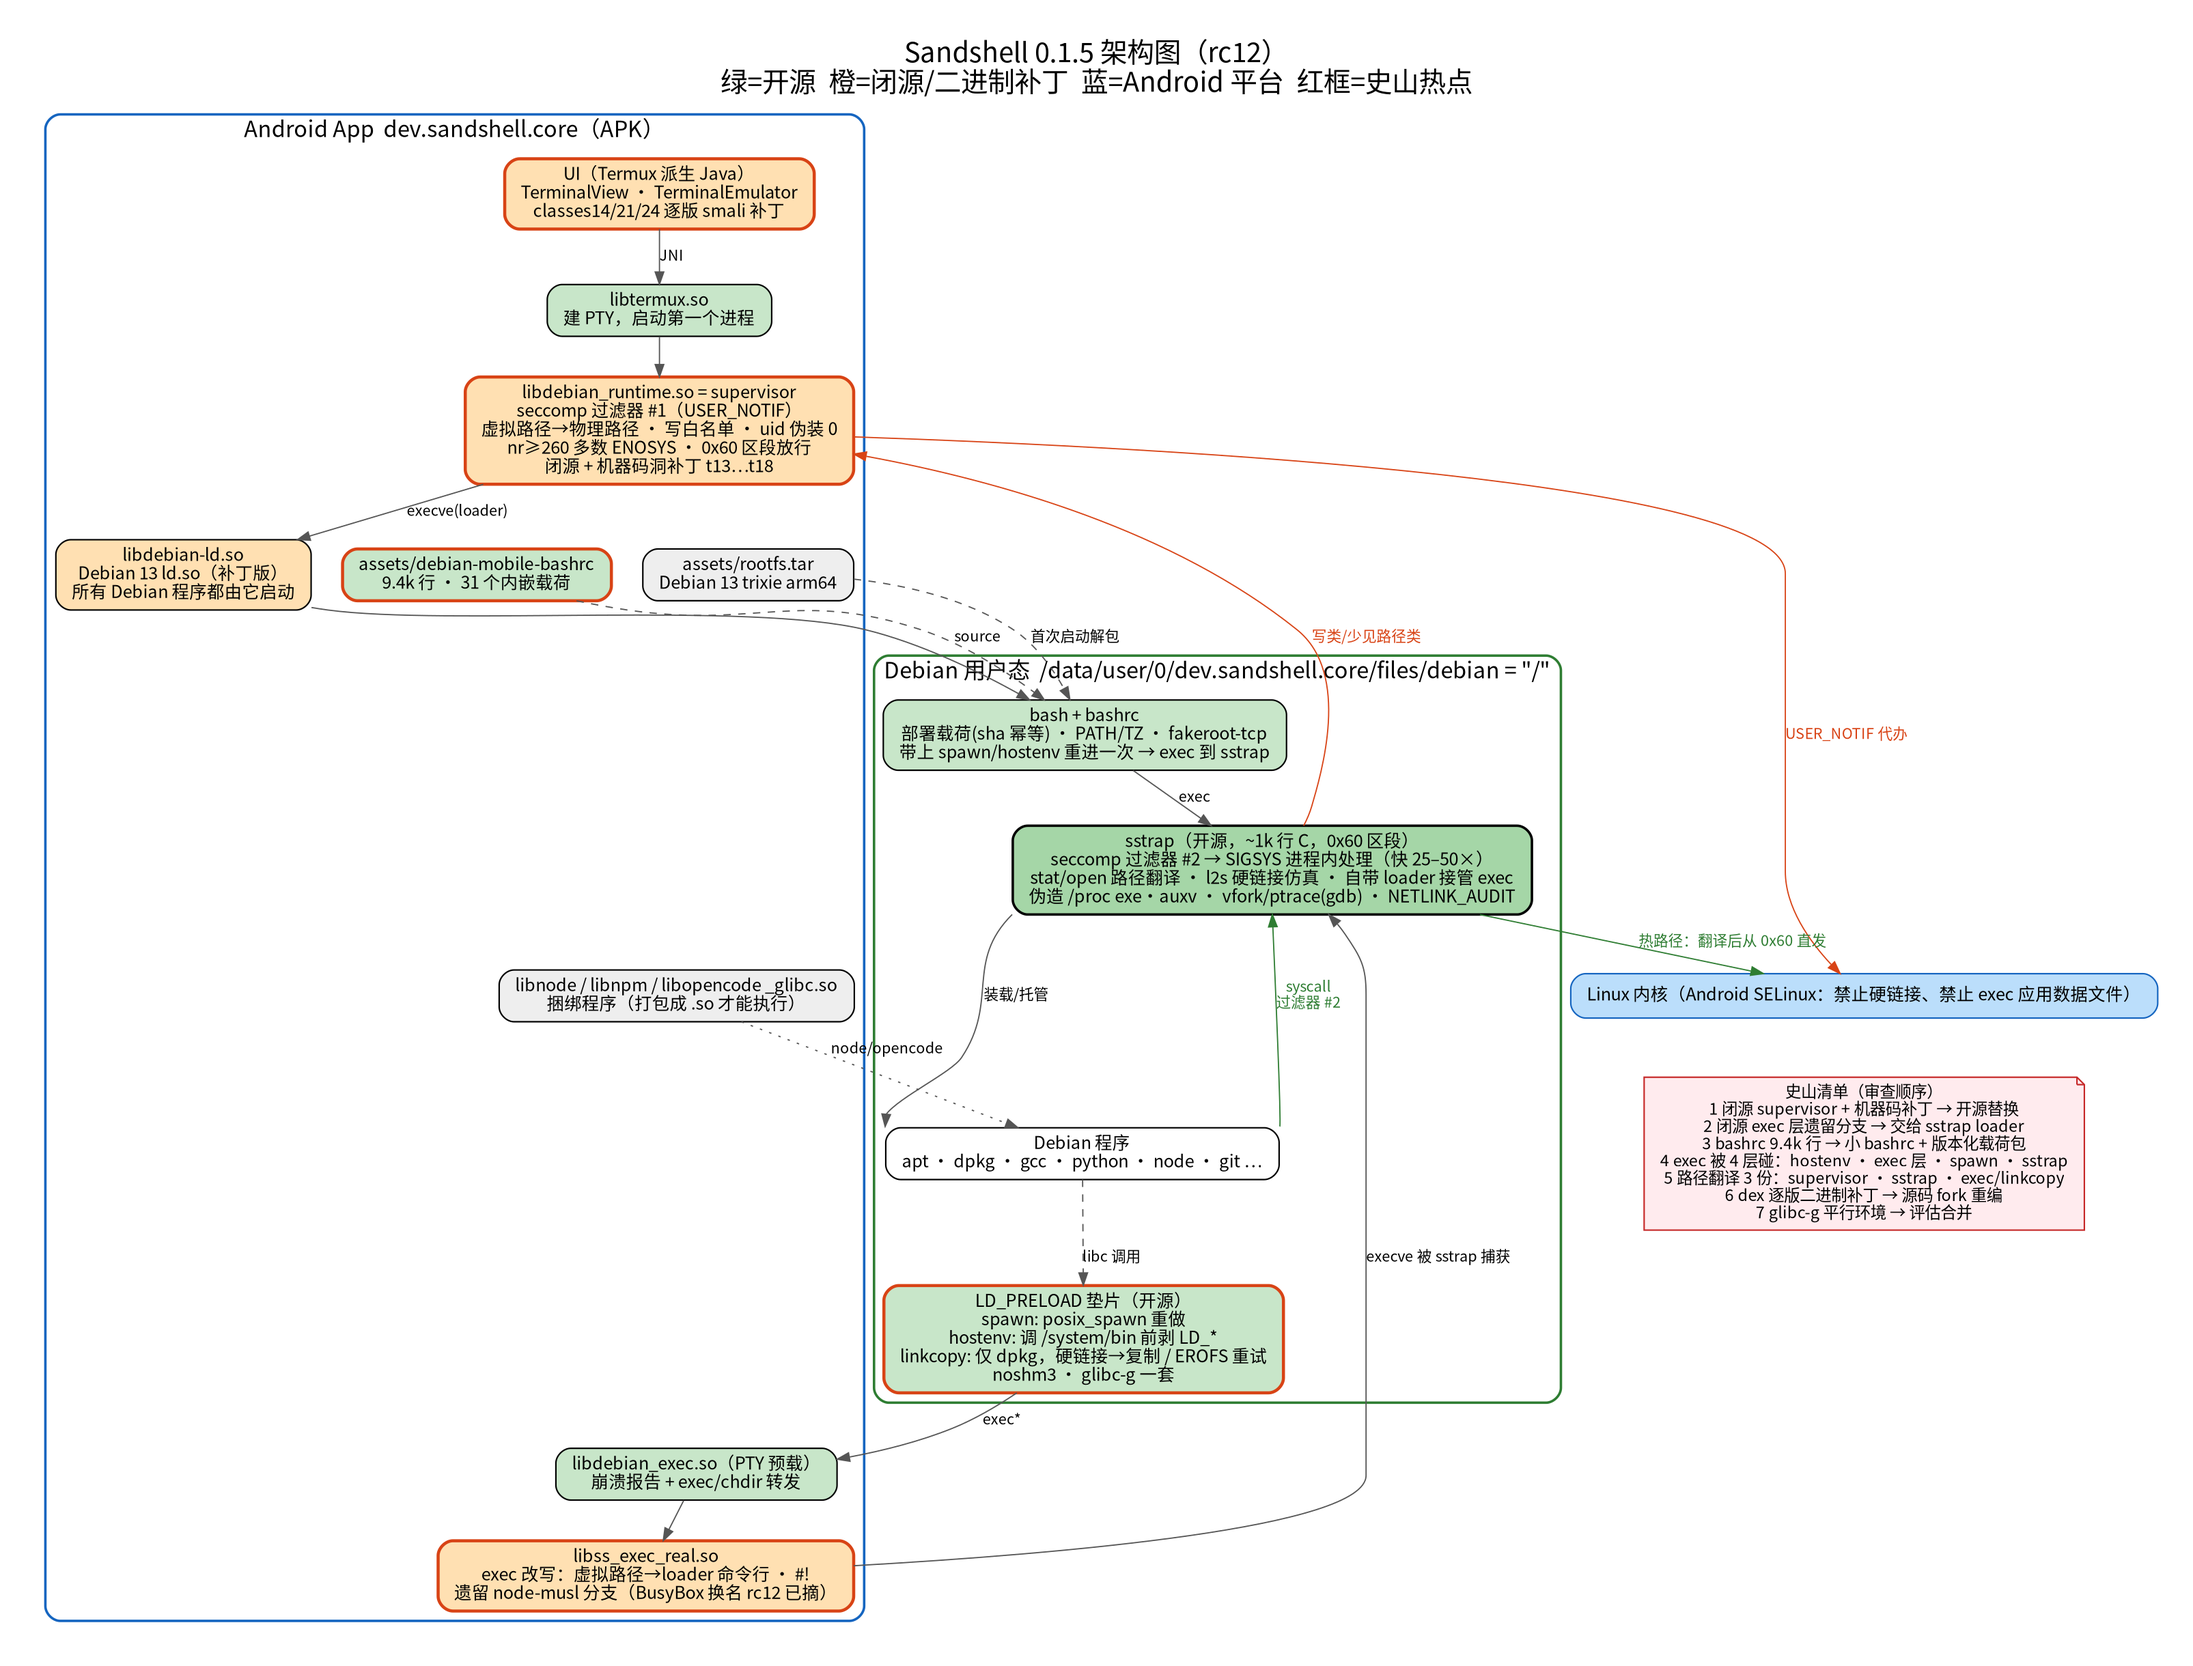
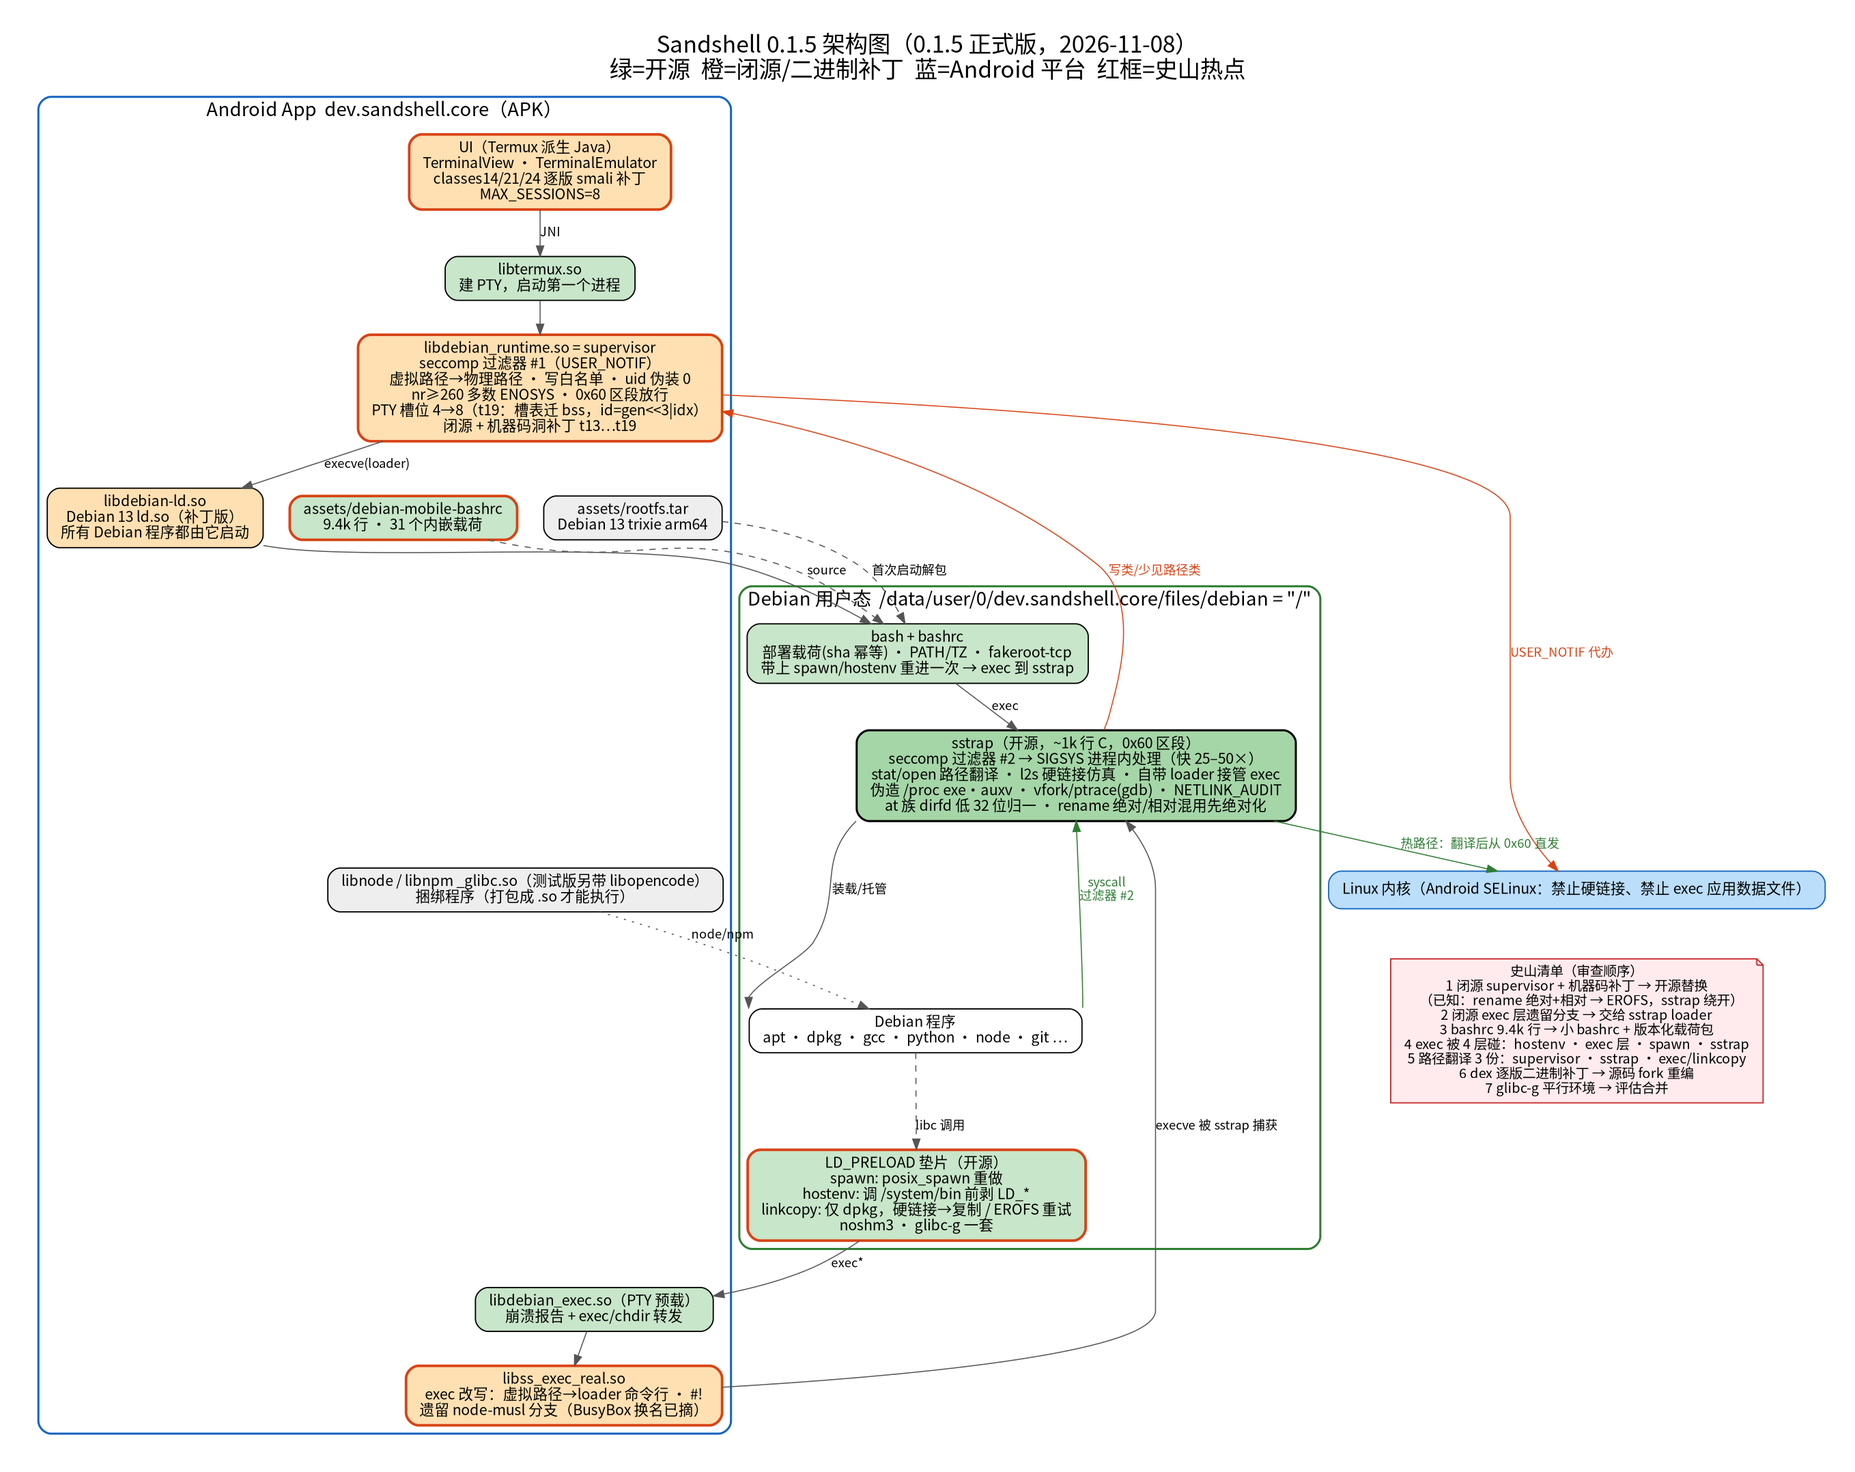
docs: architecture map for 0.1.5 release (PTY slots t19, sstrap dirfd/rename fixes)

diff --git a/docs/architecture-0.1.5.md b/docs/architecture-0.1.5.md
@@ -1,4 +1,4 @@
-# Sandshell 0.1.5 架构总览（rc12，2026-11-08）
+# Sandshell 0.1.5 架构总览（0.1.5 正式版，2026-11-08）
 
 目的：给代码审查用的一张"地图"。标出每层是什么、谁写的（开源/闭源/二进制补丁）、哪里重复、哪里是历史包袱。
 
@@ -13,7 +13,7 @@
 │        │ JNI                                                                                                  │
 │  [libtermux.so]  建 PTY，fork+exec 第一个进程                                                                 │
 │        │                                                                                                      │
-│  [libdebian_runtime.so  = supervisor，闭源 + 机器码"洞"补丁 t13…t18]                                          │
+│  [libdebian_runtime.so  = supervisor，闭源 + 机器码"洞"补丁 t13…t19]                                          │
 │     · 装 seccomp 过滤器 #1：路径类 syscall → USER_NOTIF（由 supervisor 线程代办，虚拟路径→物理路径，写策略白名单）  │
 │       get*uid → 0；nr≥260 大多 ENOSYS；IP 落在 0x60 区段（sstrap）→ 放行                                       │
 │     · ADDFD 回填文件描述符；fakeroot 注册表；symlink 只放行固定形状                                              │
@@ -89,7 +89,7 @@ exec 一共被 4 层碰过：hostenv、libdebian_exec/libss_exec_real、spawn、
 
 ## 5. 史山清单（审查优先级）
 
-1. **闭源 supervisor + 机器码洞补丁**（t13f 分类器、t16 O_PATH、t17 CLOEXEC、t18 BPF）。每个补丁都只能反汇编验证，模拟器跑不了它。长期：用开源实现替换（sstrap 已承担热路径，可逐步把 USER_NOTIF 部分也搬过来）。
+1. **闭源 supervisor + 机器码洞补丁**（t13f 分类器、t16 O_PATH、t17 CLOEXEC、t18 BPF、t19 PTY 槽位 4→8）。每个补丁都只能反汇编验证，模拟器跑不了它。长期：用开源实现替换（sstrap 已承担热路径，可逐步把 USER_NOTIF 部分也搬过来）。
 2. **闭源 libss_exec_real**：仍带 node-musl 分支、DEBIAN_LD_PATH/python3.9 特判。rc12 摘了 BusyBox 换名；其余遗留应整体换成开源 exec 层（sstrap 已有自己的 loader，可直接接管）。
 3. **bashrc 9.4k 行**：部署器 + 每一代迁移清理（musl、bullseye、node-wall-probe…）+ 31 个内嵌载荷。建议拆成：小 bashrc + 版本化的载荷包（一个 tar，按 manifest 部署），迁移代码按版本号过期删除。
 4. **exec 四层叠加**（见第 3 节）：目标是只剩 sstrap 一层 + spawn。
@@ -102,3 +102,9 @@ exec 一共被 4 层碰过：hostenv、libdebian_exec/libss_exec_real、spawn、
 - 测试版：0.1.5-rcN（versionCode 1020+N），构建脚本 build/surgery-015-rcN.py（对上一版 APK 做"手术"替换资产/库/dex）。
 - sstrap：tools/sstrap（dev-0.1.5 分支），bashrc 内嵌其 sha。
 - 回归：tools/ssprobe/parity.sh（47 项，对照 Termux+proot）；dpkg 维护脚本上下文探针 tools/ssprobe/ss-ctx。
+
+## 0.1.5 正式版相对 rc12 的变化
+
+- **会话上限 4 → 8**：真正的上限在 `libdebian_runtime.so` 的 `nativeStartPtySession`（0x6f10），静态 4 个槽位，满了返回 -3；`DebianPtyManager.create` 抛异常，`TermuxService.createTermuxSession` 吞掉，界面"没反应"。t19 把槽表迁到 bss 0x19000（stride 0x1078，8 槽，id = gen<<3 | idx），重写起始搜索与 once-init 循环，末个 PT_LOAD 的 memsz 扩大。Java 层 `MAX_SESSIONS = 8` 不变。补丁脚本：`scripts/t15/runtime-pty-slots-8.py`。
+- **sstrap**：at 族系统调用的 dirfd 只看低 32 位（glibc `syscall()` 变参把 AT_FDCWD 零扩展，旧版因此不翻译路径 → groupadd 锁文件 ENOENT）；rename 一边绝对一边相对时先把相对路径绝对化再交给 supervisor（supervisor 对这种组合返回 EROFS，导致 update-ca-certificates 失败、curl error 60）。
+- **libss_exec_real**：BusyBox 换名分支已摘除，dpkg 维护脚本里的 `mv`/`ls` 是 GNU coreutils。
